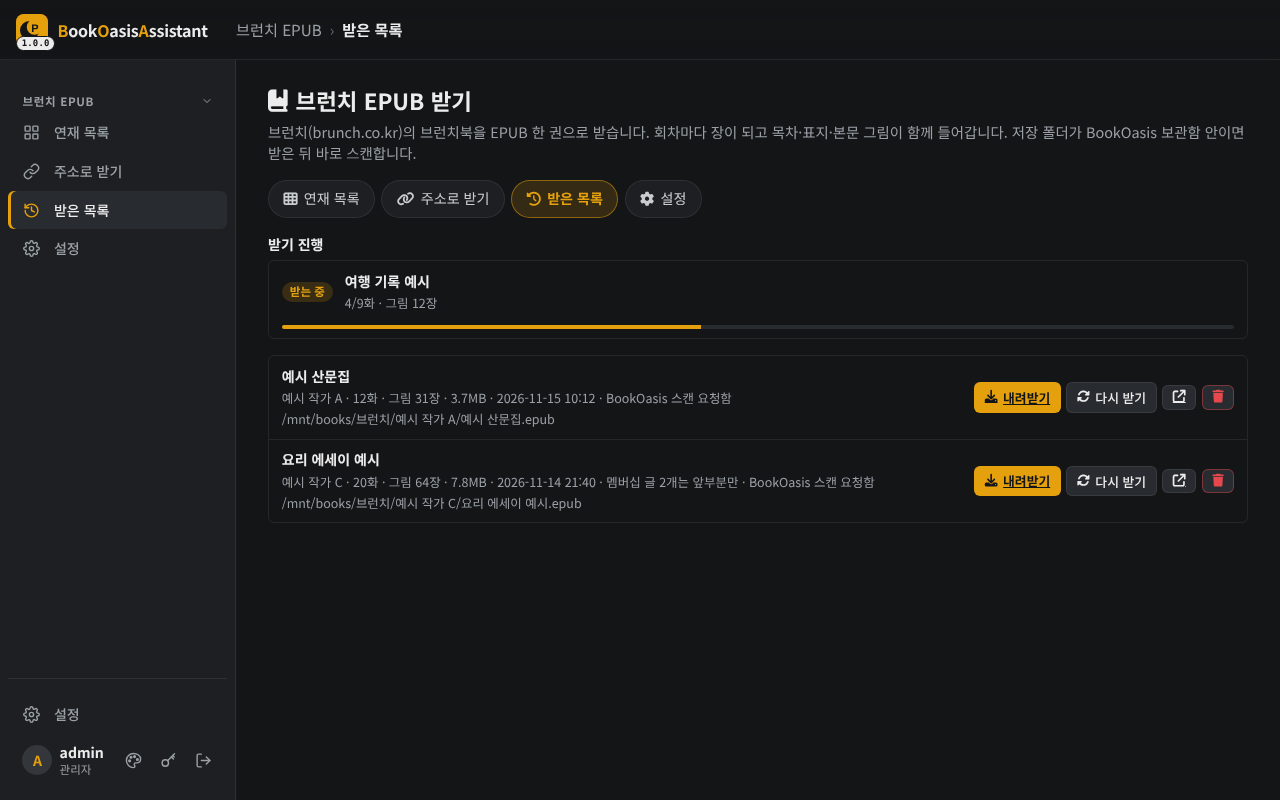
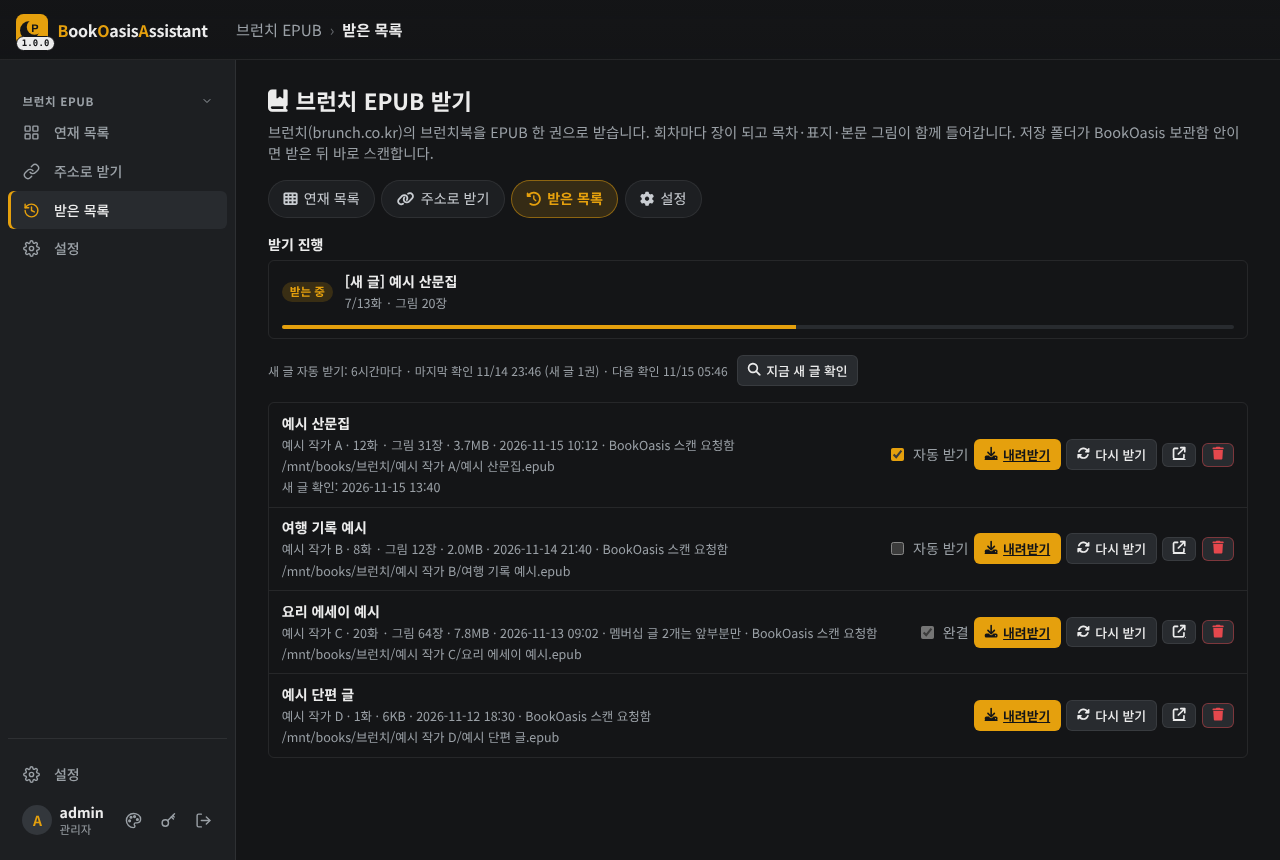
브런치: 새 글 자동 받기 (2.55.0)
- 받은 연재 중 브런치북을 정한 간격(기본 6시간)마다 확인해, 발행된 회차가 늘었으면 다시 받아 덮어씀
- 설정 탭: 새 글 자동 받기 켜기·간격(1~24시간), 받은 목록: 책마다 [자동 받기], [지금 새 글 확인], 마지막·다음 확인 시각
- 완결된 책(다 받은 뒤)은 더 확인하지 않음, 받기 진행에 [새 글] 표시
- 테스트·README·설정 가이드(예시 데이터 화면)

Claude-Session: https://claude.ai/code/session_01TRv9H2o9wx5sUtmWqgboW7

diff --git a/web/brunch/script.js b/web/brunch/script.js
@@ -99,7 +99,7 @@
             list.appendChild(h('div', { class: 'br-row' },
                 h('span', { class: `br-state ${j.state}`, text: STATE_TEXT[j.state] || j.state }),
                 h('div', { class: 'br-row-main' },
-                    h('span', { class: 'br-row-title', text: j.title || j.key }),
+                    h('span', { class: 'br-row-title', text: (j.auto ? '[새 글] ' : '') + (j.title || j.key) }),
                     h('span', { class: 'br-row-sub' + (j.state === 'error' ? ' error-text' : ''), text: j.error || j.note || (j.kind === 'book' ? '브런치북' : '글 하나') })),
                 j.state === 'running' ? h('div', { class: 'br-bar' }, h('div', { style: `width:${pct}%` })) : null));
         });
@@ -232,8 +232,24 @@
         clear(pane);
         const hist = state.history || [];
         if (!hist.length) { pane.appendChild(h('p', { class: 'muted', text: '아직 받은 책이 없습니다. [연재 목록]이나 [주소로 받기]에서 받으세요.' })); return; }
+        pane.appendChild(checkBar(() => renderHistory(pane)));
         const list = h('div', { class: 'br-list' });
         hist.forEach((x) => {
+            // 새 글 자동 받기 (브런치북만, 완결된 책은 확인하지 않음)
+            let autoBox = null;
+            if (x.kind === 'book') {
+                const chk = h('input', { type: 'checkbox', checked: !!x.auto, disabled: x.status === 'COMPLETE' });
+                chk.addEventListener('change', async () => {
+                    chk.disabled = true;
+                    try { state = await post('api/brunch/auto', { id: x.id, auto: chk.checked }); toast(chk.checked ? `새 글이 오르면 자동으로 받습니다: ${x.title}` : `자동 받기를 껐습니다: ${x.title}`, 'success'); }
+                    catch (e) { chk.checked = !chk.checked; toast(e.message, 'error'); }
+                    finally { chk.disabled = false; }
+                });
+                autoBox = h('label', { class: 'check', title: x.status === 'COMPLETE' ? '완결된 책은 새 글을 확인하지 않습니다' : '새 회차가 발행되면 자동으로 다시 받아 덮어씁니다' },
+                    chk, x.status === 'COMPLETE' ? ' 완결' : ' 자동 받기');
+            }
+            const checked = x.kind === 'book' && x.status !== 'COMPLETE' && x.auto
+                ? (x.check_error ? `새 글 확인 실패: ${x.check_error}` : (x.checked_at ? `새 글 확인: ${x.checked_at}` : '')) : '';
             const again = h('button', { class: 'btn btn-sm', type: 'button', title: '새 회차까지 담아 다시 만들어 덮어씁니다' }, icon('rotate'), ' 다시 받기');
             again.addEventListener('click', () => busy(again, async () => { await post('api/brunch/redownload', { id: x.id }); toast(`다시 받습니다: ${x.title}`, 'success'); refresh(); }));
             const forget = h('button', { class: 'btn btn-sm danger', type: 'button', title: '받은 목록에서 빼기' }, icon('trash'));
@@ -251,13 +267,31 @@
                     h('span', { class: 'br-row-title', text: x.title }),
                     h('span', { class: 'br-row-sub', text: sub }),
                     h('span', { class: 'br-row-sub', text: x.exists ? x.path : `파일 없음 (옮겼거나 지움): ${x.path}` }),
-                    (x.skipped || []).length ? h('span', { class: 'br-row-sub error-text', text: `빠진 글: ${x.skipped.join(', ')}` }) : null),
-                h('div', { class: 'toolbar' },
+                    (x.skipped || []).length ? h('span', { class: 'br-row-sub error-text', text: `빠진 글: ${x.skipped.join(', ')}` }) : null,
+                    checked ? h('span', { class: 'br-row-sub' + (x.check_error ? ' error-text' : ''), text: checked }) : null),
+                h('div', { class: 'toolbar' }, autoBox,
                     x.exists ? h('a', { class: 'btn btn-sm btn-accent', href: `api/brunch/file?id=${encodeURIComponent(x.id)}` }, icon('download'), ' 내려받기') : null,
                     again, x.url ? h('a', { class: 'btn btn-sm', href: x.url, target: '_blank', rel: 'noopener noreferrer', title: '브런치에서 보기' }, icon('arrow-up-right-from-square')) : null,
                     forget)));
         });
         pane.appendChild(list);
+    }
+
+    // 새 글 확인 상태 줄 + [지금 새 글 확인]
+    const fmtTime = (sec) => { if (!sec) return ''; const d = new Date(sec * 1000); return `${d.getMonth() + 1}/${d.getDate()} ${String(d.getHours()).padStart(2, '0')}:${String(d.getMinutes()).padStart(2, '0')}`; };
+    function checkBar(again) {
+        const c = state.check || {};
+        const s = state.settings || {};
+        const btn = h('button', { class: 'btn btn-sm', type: 'button', disabled: !!c.running }, icon('magnifying-glass'), c.running ? ' 확인하는 중...' : ' 지금 새 글 확인');
+        btn.addEventListener('click', () => busy(btn, async () => {
+            state = await post('api/brunch/check');
+            toast('연재 중인 브런치북의 새 글을 확인합니다. 새 글이 있으면 받기 진행에 나옵니다.', 'success');
+            setTimeout(() => { refresh(); again(); }, 4000);
+        }));
+        const text = !s.auto_check ? '새 글 자동 받기가 꺼져 있습니다 (설정 탭).'
+            : `새 글 자동 받기: ${s.check_hours}시간마다` + (c.last ? ` · 마지막 확인 ${fmtTime(c.last)}` + (c.found ? ` (새 글 ${c.found}권)` : '') : '')
+              + (c.next ? ` · 다음 확인 ${fmtTime(c.next)}` : '') + (c.error ? ` · 실패: ${c.error}` : '');
+        return h('div', { class: 'toolbar' }, h('span', { class: 'field-hint', text }), btn);
     }
 
     // ── 설정 ──
@@ -268,9 +302,13 @@
         const s = state.settings;
         const dirIn = h('input', { class: 'input', value: s.save_dir, placeholder: state.env_root || '비우면 기본 위치' });
         const byAuthor = h('input', { type: 'checkbox', checked: s.by_author });
+        const autoIn = h('input', { type: 'checkbox', checked: s.auto_check });
+        const hoursSel = h('select', { class: 'select', style: 'width:auto' },
+            (state.check_hours || [1, 2, 3, 6, 12, 24]).map((n) => h('option', { value: String(n), text: `${n}시간마다`, selected: n === s.check_hours })));
         const save = h('button', { class: 'btn btn-accent', type: 'button' }, icon('floppy-disk'), ' 저장');
         save.addEventListener('click', () => busy(save, async () => {
-            state = await post('api/brunch/settings', { save_dir: dirIn.value.trim(), by_author: byAuthor.checked });
+            state = await post('api/brunch/settings', { save_dir: dirIn.value.trim(), by_author: byAuthor.checked,
+                auto_check: autoIn.checked, check_hours: Number(hoursSel.value) });
             toast('저장했습니다.', 'success');
             renderSettings(pane);
         }));
@@ -280,10 +318,14 @@
                 h('span', { class: 'field-hint', text: 'BookOasis 보관함 안의 폴더(예: /mnt/books/브런치)로 두면 받은 뒤 드라이브 변경 감시가 바로 BookOasis 스캔을 요청합니다. '
                     + '비우면 .env의 BRUNCH_DOWNLOAD_ROOT, 그것도 없으면 데이터 폴더(DATA_DIR/brunch/files)에 둡니다.' })),
             h('label', { class: 'check' }, byAuthor, ' 작가 이름으로 폴더 나누기 (<저장 폴더>/<작가>/<브런치북 제목>.epub)'),
+            h('div', { class: 'field' }, h('span', { class: 'field-label', text: '새 글 자동 받기' }),
+                h('div', { class: 'toolbar' }, h('label', { class: 'check' }, autoIn, ' 받은 연재 중 브런치북에 새 글이 오르면 자동으로 받기'), hoursSel),
+                h('span', { class: 'field-hint', text: '정한 간격마다 받은 목록의 연재 중인 브런치북을 확인해, 발행된 회차가 늘었으면 새 회차까지 담아 다시 받아 덮어씁니다 '
+                    + '(저장 폴더가 보관함 안이면 BookOasis 스캔도 다시). 책마다 [받은 목록 > 자동 받기]로 끌 수 있고, 완결된 책은 확인하지 않습니다.' })),
             h('div', { class: 'toolbar' }, save)),
         h('div', { class: 'card' }, h('b', { text: '알아 두기' }),
             h('p', { class: 'field-hint', text: '브런치북 하나 = EPUB 한 권입니다. 발행된 회차가 차례대로 장이 되고, 목차·표지·책 정보(소개·원문 주소)와 본문 그림이 함께 들어갑니다. '
-                + '연재 중인 책은 [받은 목록 > 다시 받기]로 새 회차까지 담아 덮어쓸 수 있습니다.' }),
+                + '연재 중인 책은 새 글이 오르면 자동으로 다시 받고(위 설정), [받은 목록 > 다시 받기]로 바로 받을 수도 있습니다.' }),
             h('p', { class: 'field-hint', text: '멤버십(유료) 글은 브런치 페이지에 공개된 앞부분만 담기고 원문 링크가 붙습니다. 받은 EPUB은 개인 소장용으로만 쓰세요 (글의 저작권은 작가에게 있습니다).' })));
     }
 

diff --git a/tests/test_brunch.py b/tests/test_brunch.py
@@ -7,6 +7,7 @@ import os
 import shutil
 import sys
 import tempfile
+import threading
 import unittest
 import zipfile
 from xml.dom import minidom
@@ -153,7 +154,7 @@ class ServiceTest(unittest.TestCase):
         s = self.s
         with self.assertRaises(ValueError):
             s.clean_settings({"save_dir": "relative/dir"})
-        self.assertEqual(s.clean_settings({"save_dir": "/a/b/../c", "by_author": False}), {"save_dir": "/a/c", "by_author": False})
+        self.assertEqual(s.clean_settings({"save_dir": "/a/b/../c", "by_author": False}), {"save_dir": "/a/c", "by_author": False, "auto_check": True, "check_hours": 6})
         self.assertEqual(s.safe_name('a/b:c*?"d.'), "a b c d")
         self.assertEqual(s.safe_name("..."), "브런치")
         p = s.target_path({"save_dir": "/books", "by_author": True}, "작가/이름", "책 제목")
@@ -200,6 +201,95 @@ class ServiceTest(unittest.TestCase):
                 s.api_post("/api/brunch/settings", {"save_dir": "rel"})
         finally:
             s._STATE["client"] = None
+
+
+@unittest.skipUnless(HAVE_REQUESTS, "requests 없음")
+class AutoCheckTest(unittest.TestCase):
+    """새 글 자동 받기: 받은 브런치북에 새 회차가 오르면 다시 받기 대기열에"""
+
+    @classmethod
+    def setUpClass(cls):
+        from brunch import fetch, service
+        cls.f, cls.s = fetch, service
+
+    def setUp(self):
+        s = self.s
+        with s._LOCK:
+            s._JOBS.clear()
+        s._write_json(s._history_path(), [])
+        s._write_json(s._settings_path(), {"save_dir": os.path.join(TMP, "books2")})
+        self.page = BOOK_PAGE
+        f, test = self.f, self
+
+        class FakeClient:
+            def book(self, address):
+                return f.parse_book(test.page, address)
+
+            def article(self, uid, no):
+                return f.parse_article(ARTICLE_PAGE % "false", f.article_url(uid, no))
+
+            def get_image(self, url):
+                return None
+        s._STATE["client"] = FakeClient()
+        s._STATE["thread"] = threading.Thread()   # 대기열 스레드를 띄우지 않게 (직접 _run)
+
+    def tearDown(self):
+        self.s._STATE["client"] = None
+        self.s._STATE["thread"] = None
+
+    def _download(self):
+        job = {"id": "a1", "key": "book:example1", "kind": "book", "target": "example1", "title": "", "state": "running",
+               "done": 0, "total": 0, "error": "", "note": "", "auto": False}
+        self.s._run(job)
+        return self.s.load_history()[0]
+
+    def test_settings(self):
+        s = self.s
+        self.assertEqual(s.load_settings()["check_hours"], 6)
+        self.assertTrue(s.load_settings()["auto_check"])
+        self.assertEqual(s.clean_settings({"check_hours": "12", "auto_check": False})["check_hours"], 12)
+        with self.assertRaises(ValueError):
+            s.clean_settings({"check_hours": 5})
+
+    def test_new_episode_queues_redownload(self):
+        s = self.s
+        h = self._download()
+        self.assertEqual(h["episode_ids"], [10, 12])
+        self.assertTrue(h["auto"] and s.watched(h))
+        self.assertEqual(s.check_now(), 0)              # 그대로면 아무것도 안 함
+        self.assertEqual(len(s._JOBS), 0)
+        self.page = BOOK_PAGE.replace('href="/@@abc/0" aria-disabled="true"', 'href="/@@abc/15" aria-disabled="false"')
+        self.assertEqual(s.check_now(), 1)              # 발행 예정이던 3화가 올라옴
+        self.assertEqual([(j["key"], j["auto"]) for j in s._JOBS], [("book:example1", True)])
+        self.assertEqual(s.check_now(), 1)
+        self.assertEqual(len(s._JOBS), 1)               # 이미 대기 중이면 또 넣지 않음
+        self.assertTrue(s.load_history()[0]["checked_at"])
+
+    def test_auto_off_and_complete(self):
+        s = self.s
+        h = self._download()
+        s.api_post("/api/brunch/auto", {"id": h["id"], "auto": False})
+        self.assertFalse(s.load_history()[0]["auto"])
+        h = self._download()                            # 다시 받아도 끈 선택은 그대로
+        self.assertFalse(h["auto"])
+        self.page = BOOK_PAGE.replace('href="/@@abc/0" aria-disabled="true"', 'href="/@@abc/15" aria-disabled="false"')
+        self.assertEqual(s.check_now(), 0)              # 자동 받기를 끈 책은 확인하지 않음
+        s.api_post("/api/brunch/auto", {"id": h["id"], "auto": True})
+        self.page = BOOK_PAGE.replace("[연재 브런치북]", "[브런치북]")
+        self.assertEqual(s.check_now(), 0)
+        self.assertEqual(s.load_history()[0]["status"], "COMPLETE")   # 완결 + 다 받음 -> 더 확인하지 않음
+        self.assertFalse(s.watched(s.load_history()[0]))
+        with self.assertRaises(s.ApiError):
+            s.api_post("/api/brunch/auto", {"id": "nope", "auto": True})
+
+    def test_old_history_without_ids(self):
+        """예전 기록(회차 번호 없음)은 회차 수로 비교"""
+        s = self.s
+        h = {"chapters": 2, "skipped": []}
+        book = self.f.parse_book(BOOK_PAGE, "example1")
+        self.assertFalse(s._has_new(h, book))
+        self.assertTrue(s._has_new({"chapters": 1, "skipped": []}, book))
+        self.assertTrue(s._has_new({"episode_ids": [10]}, book))
 
 
 def tearDownModule():

diff --git a/README.md b/README.md
@@ -415,6 +415,9 @@ venv\Scripts\python app.py
   기본은 `<저장 폴더>/<작가>/<브런치북 제목>.epub`(설정에서 작가 폴더를 끌 수 있음). 저장 폴더가 BookOasis 보관함 안이면
   웹툰처럼 드라이브 변경 감시가 바로 VFS 새로고침 → BookOasis 부분 스캔을 합니다.
 - **받은 목록**: [내려받기](브라우저로 EPUB 받기), [다시 받기](연재 중인 책의 새 회차까지 담아 덮어쓰기), 목록에서 빼기(파일도 지울지 묻습니다).
+- **새 글 자동 받기**(기본 켬): 정한 간격(1·2·3·6·12·24시간, 기본 6시간)마다 받은 목록의 연재 중 브런치북을 확인해, 발행된 회차가 늘었으면
+  새 회차까지 담아 다시 받아 덮어씁니다(보관함 안이면 BookOasis 스캔도 다시). 책마다 받은 목록의 [자동 받기]로 끌 수 있고,
+  완결된 책은 확인하지 않습니다. 받은 목록 위 [지금 새 글 확인]으로 바로 확인할 수도 있습니다. 확인 기록은 `DATA_DIR/brunch/check.json`.
 - 받기는 한 번에 한 권씩 차례로 하고, 브런치에 너무 빨리 묻지 않게 글 사이를 띄웁니다(11화·그림 37장 책이 1분 남짓).
   설정·기록은 `DATA_DIR/brunch/`(settings.json, history.json). 끄려면 `BRUNCH_ENABLED=false`.
 - 브런치 화면용(비공식) 페이지·API를 읽으므로 브런치가 바뀌면 깨질 수 있습니다 - 그때는 `brunch/fetch.py`의 `parse_*`만 고치면 됩니다.
@@ -440,7 +443,7 @@ venv\Scripts\python app.py
   `.env`에 `UPDATE_CHECK_URL=`(빈 값)을 넣으면 확인하지 않습니다.
 
 - `GET /` 드라이브 변경 감시 (현황, 변경 기록, 감시 설정, 스캔 일정, 로그) · `GET /webtoon` 웹툰 다운로더 · `GET /games` 미니게임 · `GET /tgup` 텔레그램 자동 올리기 · `GET /brunch` 브런치 EPUB 받기
-- `GET /api/brunch`(설정·받기 진행·받은 목록) · `GET /api/brunch/list|resolve|book|file` · `POST /api/brunch/download|redownload|forget|settings|clear-jobs` 브런치 EPUB 받기 (`brunch/service.py`)
+- `GET /api/brunch`(설정·받기 진행·받은 목록·새 글 확인) · `GET /api/brunch/list|resolve|book|file` · `POST /api/brunch/download|redownload|forget|settings|auto|check|clear-jobs` 브런치 EPUB 받기 (`brunch/service.py`)
 - `GET /api/tgup`(설정·진행 상태·계정) · `GET /api/tgup/options|channels|folders|shot` · `POST /api/tgup/settings|check|test|item|account` 텔레그램 자동 올리기 (`tgup/service.py`)
 - `POST /api/rpc/<동작>` 드라이브 변경 감시 RPC, `GET /api/wtm/data`·`POST /api/wtm/action` 웹툰 다운로더.
   `Content-Type: application/json`만 받습니다(다른 사이트 폼 전송 차단).
